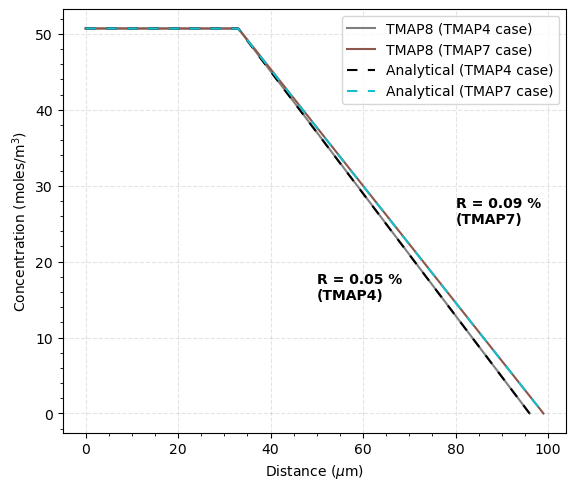
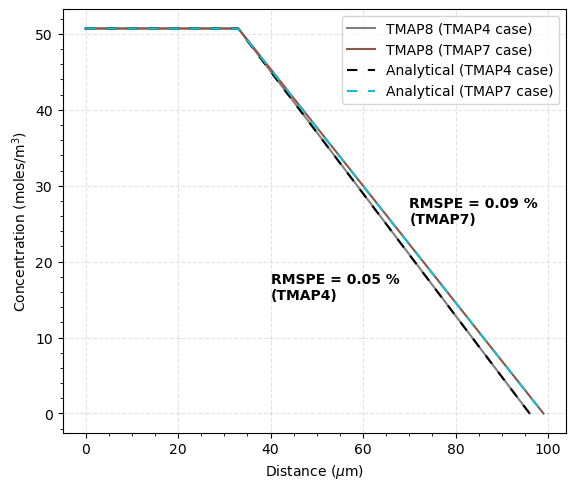
Updated Python script to correctly position updated text and updated documentation figures ( #88 )

Changed region(s): [[0.6875, 0.398, 0.9375, 0.4592], [0.4688, 0.551, 0.7188, 0.6122]]

diff --git a/test/tests/ver-1e/comparison_ver-1e.py b/test/tests/ver-1e/comparison_ver-1e.py
@@ -154,7 +154,7 @@ analytical_conc_tmap4 = (x<a)*PyC_conc+(x>=a)*SiC_conc
 
 RMSE = np.sqrt(np.mean((tmap_conc_tmap4-analytical_conc_tmap4)**2))
 err_percent = RMSE*100/np.mean(analytical_conc_tmap4)
-ax.text(50, 15, 'RMSPE = %.2f '%err_percent+'% \n(TMAP4)',fontweight='bold')
+ax.text(40, 15, 'RMSPE = %.2f '%err_percent+'% \n(TMAP4)',fontweight='bold')
 
 # TMAP 7 Analytical solution
 c0 = 50.7079            # concentration at the PyC free surface (moles/m^3)
@@ -170,7 +170,7 @@ analytical_conc_tmap7 = (x<a)*PyC_conc+(x>=a)*SiC_conc
 
 RMSE = np.sqrt(np.mean((tmap_conc_tmap7-analytical_conc_tmap7)**2))
 err_percent = RMSE*100/np.mean(analytical_conc_tmap7)
-ax.text(80, 25, 'RMSPE = %.2f '%err_percent+'% \n(TMAP7)',fontweight='bold')
+ax.text(70, 25, 'RMSPE = %.2f '%err_percent+'% \n(TMAP7)',fontweight='bold')
 
 ax.plot(tmap_distance_tmap4_microns, analytical_conc_tmap4,
         label=r"Analytical (TMAP4 case)", c='k', linestyle='--', dashes=(5,5))

diff --git a/doc/content/verification_and_validation/ver-1e.md b/doc/content/verification_and_validation/ver-1e.md
@@ -55,14 +55,14 @@ and $\lambda_n$ are the roots of
 
 ## Results
 
-[ver-1e_comparison_dist] shows the comparison of the TMAP8 calculation and the analytical solution for concentration after steady-state is reached. The plots show the TMAP8 and analytical solution comparisons for both the TMAP4 case ($l$ = 63 $\mu m$) and the TMAP7 case ($l$ = 66 $\mu m$). 
+[ver-1e_comparison_dist] shows the comparison of the TMAP8 calculation and the analytical solution for concentration after steady-state is reached. The plots show the TMAP8 and analytical solution comparisons for both the TMAP4 case ($l$ = 63 $\mu m$) and the TMAP7 case ($l$ = 66 $\mu m$).
 
 !media figures/ver-1e_comparison_dist.png
     style=width:50%;margin-bottom:2%
     id=ver-1e_comparison_dist
     caption=Comparison of TMAP8 calculation with the analytical solution. Bold text next to the plot curves shows the root mean square percentage error (RMSPE) between the TMAP8 prediction and analytical solution for the TMAP4 and TMAP7 verification cases.
 
-For transient solution comparison, the concentation at a point, which is $x$ $\mu m$ away from the PyC-SiC interface into the SiC layer, is obtained using the TMAP code as well as analytically. [ver-1e_comparison_time] shows comparison of the TMAP calculation with the analytical solution for this transient case. In the TMAP4 case, $x$ = 8 $\mu m$, and in the TMAP7 case $x$ = 15.75 $\mu m$. There is good agreement between TMAP and the analytical solution for both steady state as well as transient cases. In both cases, the root mean square percentage error (RMSPE) is under 0.2 %. 
+For transient solution comparison, the concentation at a point, which is $x$ $\mu m$ away from the PyC-SiC interface into the SiC layer, is obtained using the TMAP code as well as analytically. [ver-1e_comparison_time] shows comparison of the TMAP calculation with the analytical solution for this transient case. In the TMAP4 case, $x$ = 8 $\mu m$, and in the TMAP7 case $x$ = 15.75 $\mu m$. There is good agreement between TMAP and the analytical solution for both steady state as well as transient cases. In both cases, the root mean square percentage error (RMSPE) is under 0.2 %.
 
 !media figures/ver-1e_comparison_time.png
     style=width:50%;margin-bottom:2%
